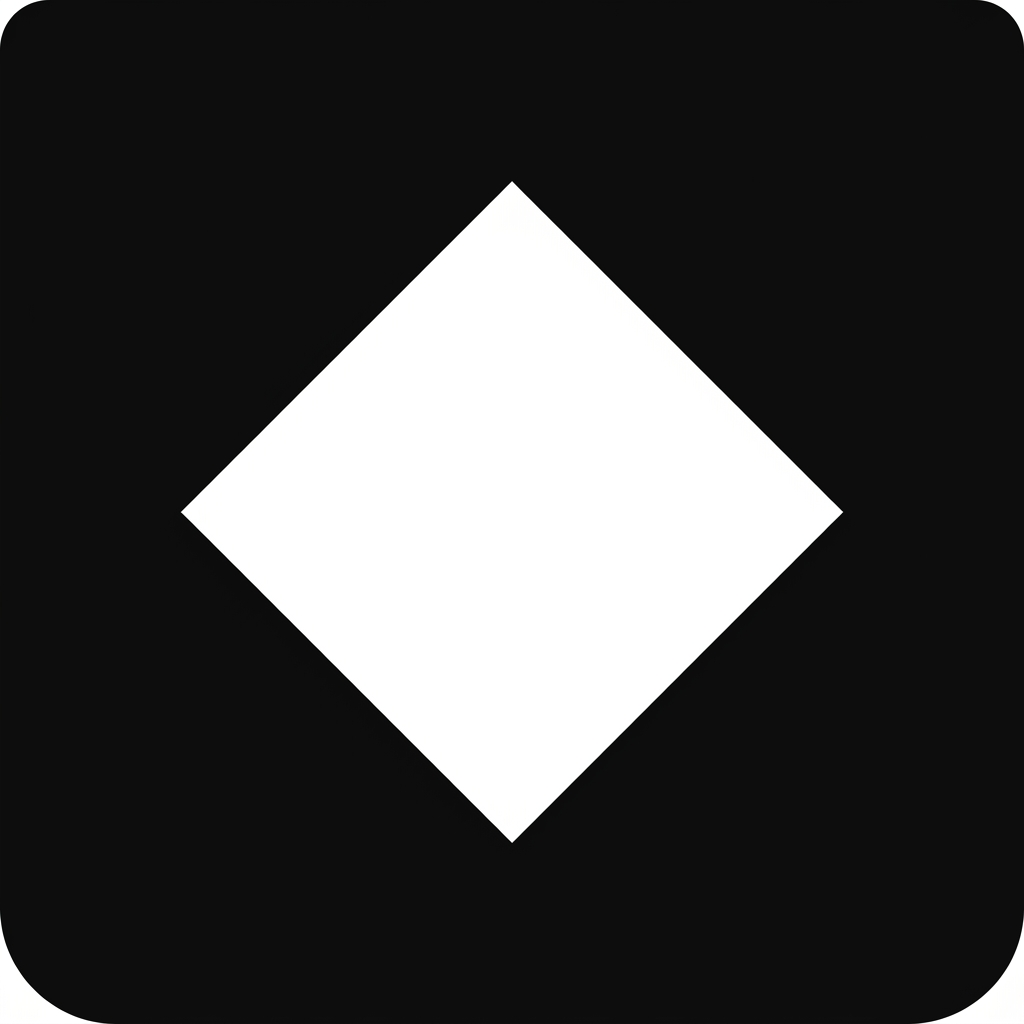
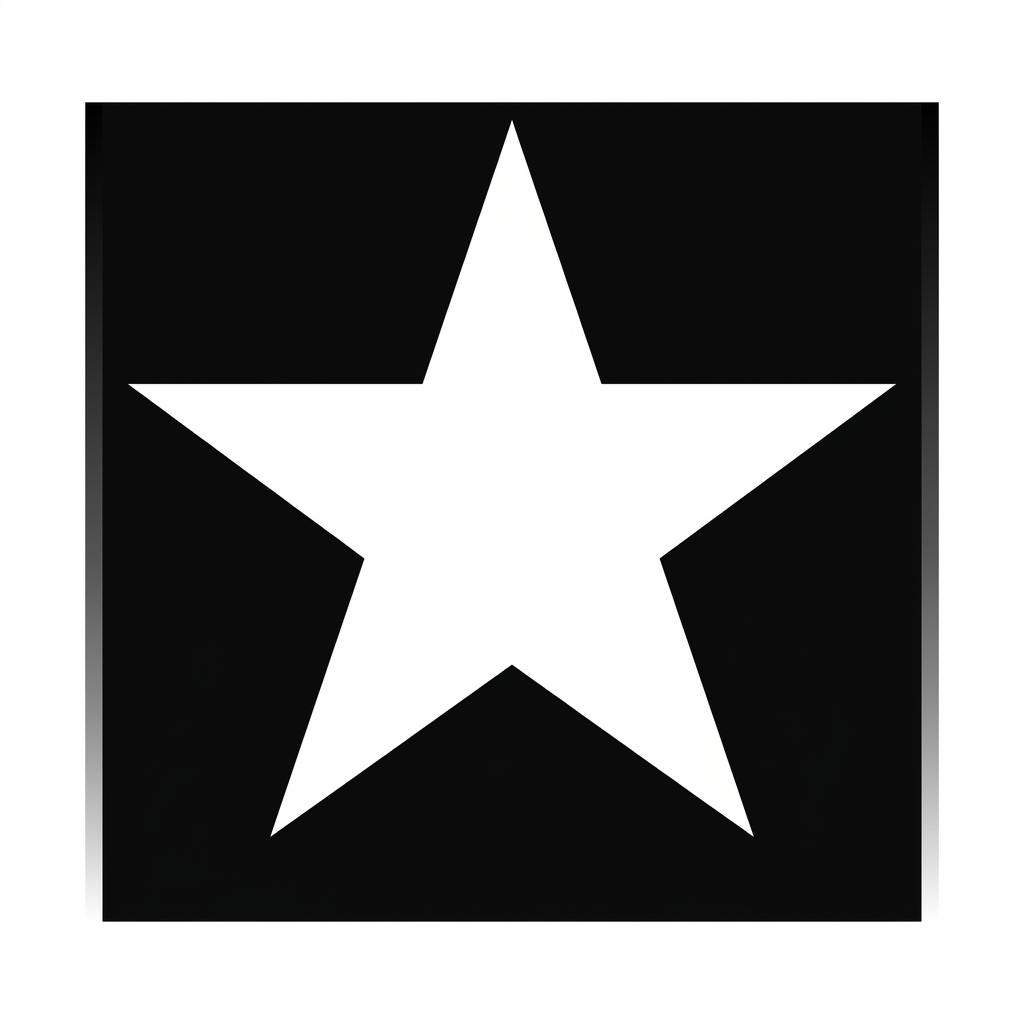
Añadido swipe y nuevos iconos PWA

diff --git a/src/layouts/DashboardLayout.jsx b/src/layouts/DashboardLayout.jsx
@@ -1,6 +1,5 @@
-import { useState, useEffect } from 'react'
+import { useRef, useCallback } from 'react'
 import { Outlet, NavLink, useNavigate, useLocation } from 'react-router-dom'
-import { supabase } from '../supabaseClient'
 
 const navItems = [
   { to: '/tareas', label: 'Tareas', icon: '☰' },
@@ -10,14 +9,48 @@ const navItems = [
   { to: '/pomodoro', label: 'Focus', icon: '⏱' },
 ]
 
+const routes = navItems.map(n => n.to)
+
 export default function DashboardLayout() {
   const navigate = useNavigate()
+  const location = useLocation()
+  const touchRef = useRef({ startX: 0, startY: 0 })
+
+  const currentIndex = routes.indexOf(location.pathname)
+
+  const onTouchStart = useCallback((e) => {
+    const touch = e.touches[0]
+    touchRef.current = { startX: touch.clientX, startY: touch.clientY }
+  }, [])
+
+  const onTouchEnd = useCallback((e) => {
+    const touch = e.changedTouches[0]
+    const deltaX = touchRef.current.startX - touch.clientX
+    const deltaY = Math.abs(touchRef.current.startY - touch.clientY)
+    const absDeltaX = Math.abs(deltaX)
+
+    // Only swipe if horizontal movement > 50px and greater than vertical movement
+    if (absDeltaX < 50 || deltaY > absDeltaX) return
+
+    const idx = routes.indexOf(location.pathname)
+    if (idx === -1) return
+
+    if (deltaX > 0 && idx < routes.length - 1) {
+      // Swipe left → next tab
+      navigate(routes[idx + 1])
+    } else if (deltaX < 0 && idx > 0) {
+      // Swipe right → previous tab
+      navigate(routes[idx - 1])
+    }
+  }, [navigate, location.pathname])
 
   return (
-    <div className="screen-container">
-      {/* Main content */}
+    <div className="screen-container" onTouchStart={onTouchStart} onTouchEnd={onTouchEnd}>
+      {/* Main content with swipe transition */}
       <main className="screen-content">
-        <Outlet />
+        <div key={location.pathname} className="anim-tab-slide">
+          <Outlet />
+        </div>
       </main>
 
       {/* Bottom Navigation Bar */}